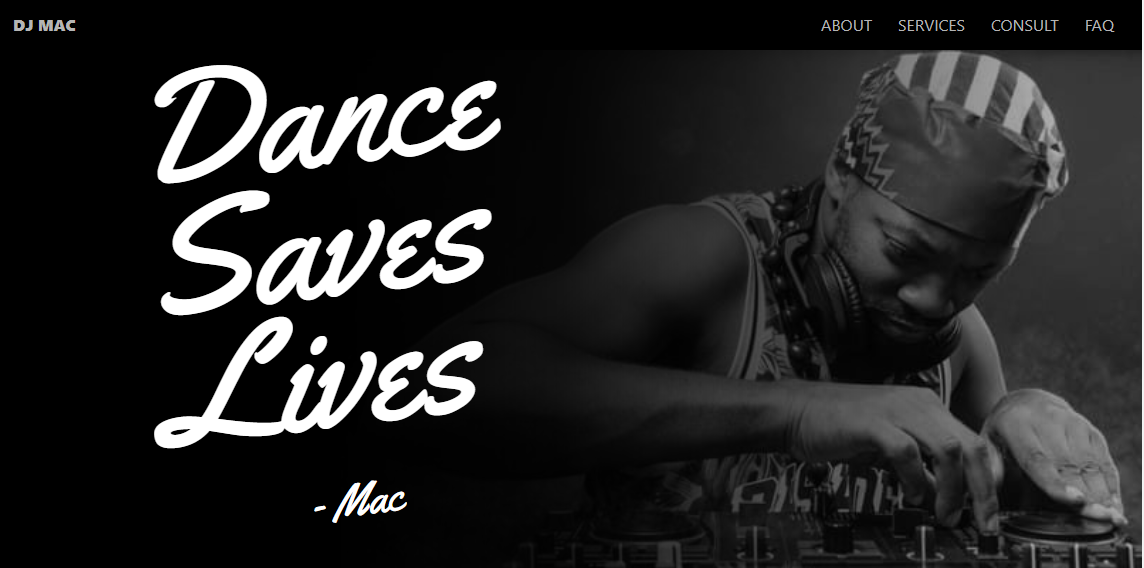
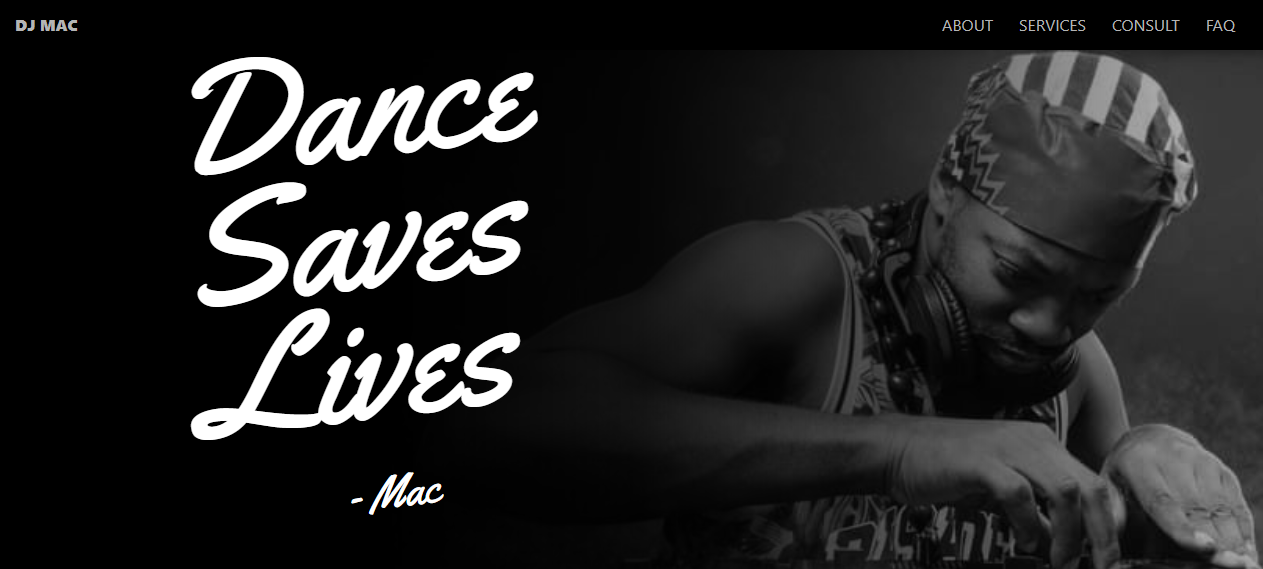
update demo img style

diff --git a/public/styles.css b/public/styles.css
@@ -262,8 +262,8 @@ h1 {
 }
 
 .demoTile {
-    max-width: 300px;
-    max-height: 100px;
+    width: 300px;
+    height: 150px;
     margin: 10px;
 }
 
